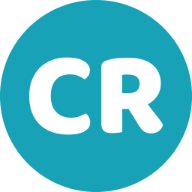
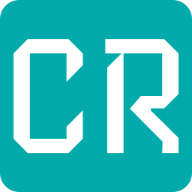
agregando iconos

diff --git a/index.html b/index.html
@@ -5,9 +5,9 @@
     <meta name="viewport" content="width=device-width, initial-scale=1, shrink-to-fit=no">
     <meta name="description" content="Aplicativo para cojunto residencial">
     <meta name="title" content="Conjunto Residencial">
-    <link rel="apple-touch-icon" sizes="180x180" href="imagenes/imagenes/apple-touch-icon.png">
-    <link rel="icon" type="image/png" sizes="32x32" href="imagenes/imagenes/favicon-32x32.png">
-    <link rel="icon" type="image/png" sizes="16x16" href="imagenes/imagenes/favicon-16x16.png">
+    <link rel="apple-touch-icon" sizes="180x180" href="imagenes/imagenes/iconos/apple-touch-icon.png">
+    <link rel="icon" type="image/png" sizes="32x32" href="imagenes/imagenes/iconos/favicon-32x32.png">
+    <link rel="icon" type="image/png" sizes="16x16" href="imagenes/imagenes/iconos/favicon-16x16.png">
     <link rel="manifest" href="imagenes/iconos/site.webmanifest">
     <title>Conjunto Residencial</title>
     <link rel="stylesheet" href="https://stackpath.bootstrapcdn.com/bootstrap/4.5.0/css/bootstrap.min.css" integrity="sha384-9aIt2nRpC12Uk9gS9baDl411NQApFmC26EwAOH8WgZl5MYYxFfc+NcPb1dKGj7Sk" crossorigin="anonymous">
